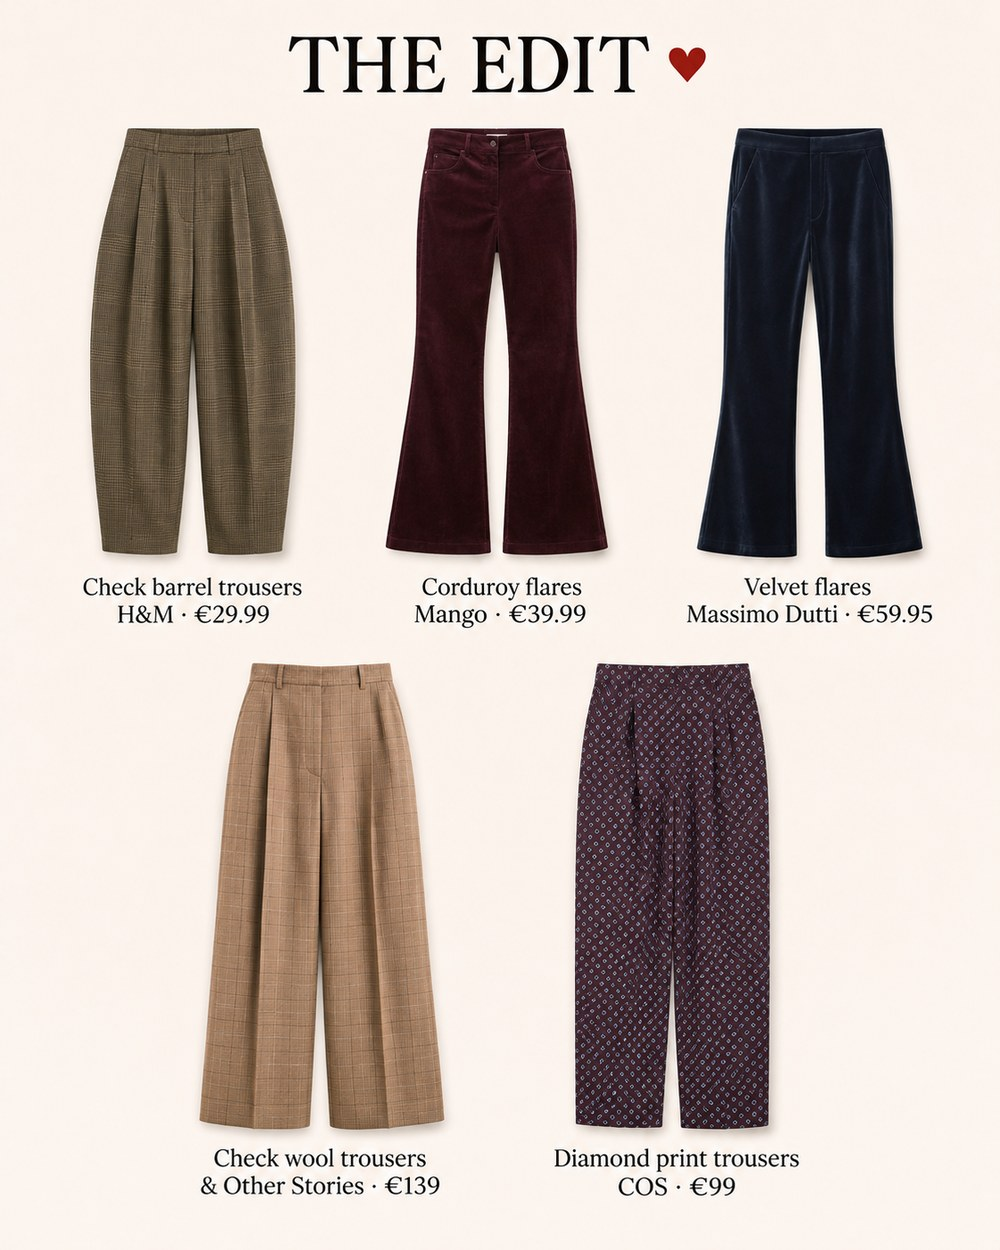
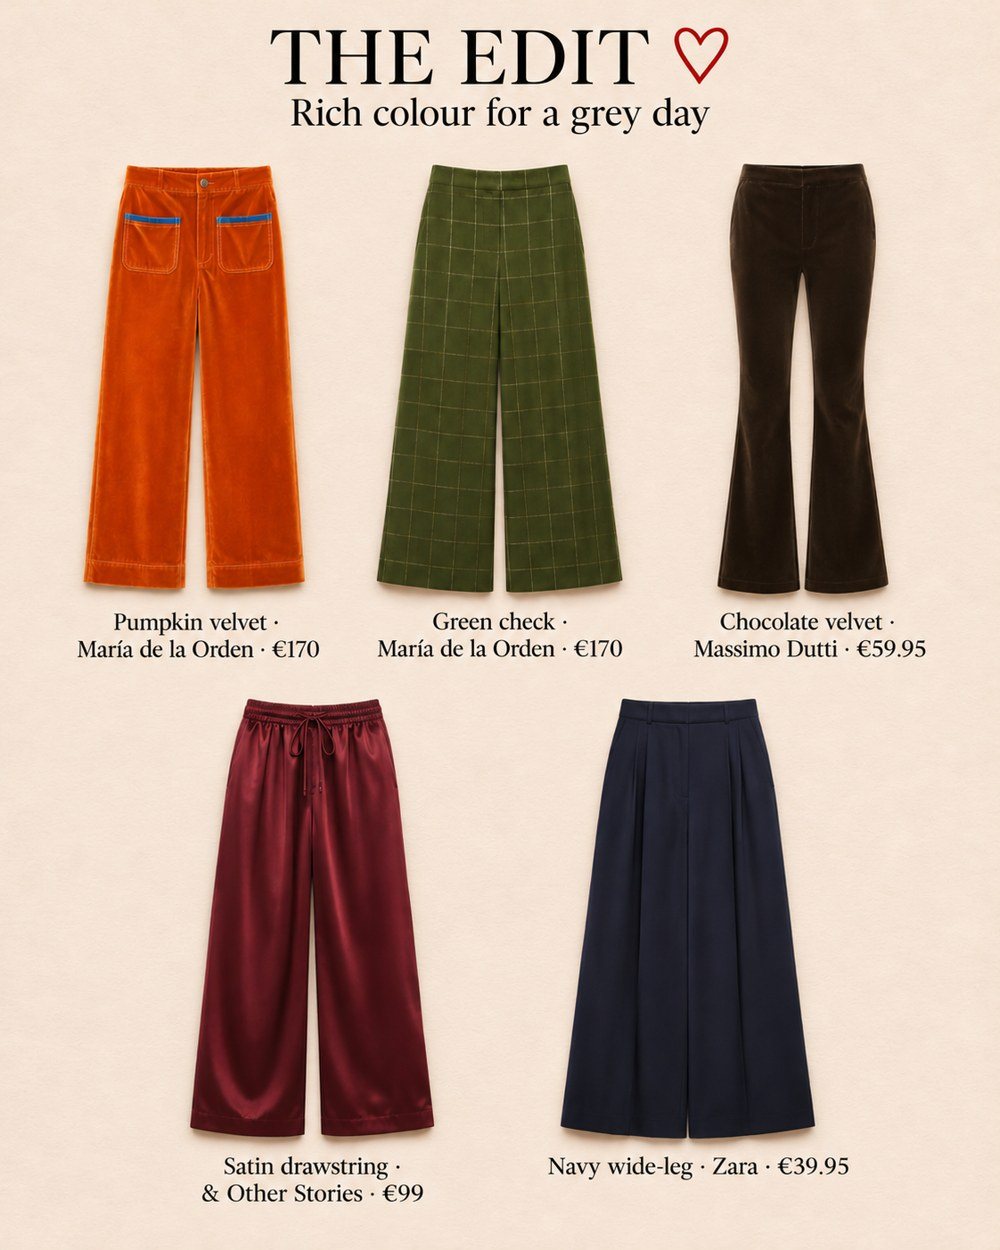
Shop: The Edit, rich colour for a grey day

diff --git a/index.html b/index.html
@@ -56,6 +56,12 @@ a:focus-visible{outline:2px solid var(--accent);outline-offset:2px}
 <script>
 /* ADD NEW LOOKS AT THE TOP OF THIS LIST */
 const LOOKS = [
+  {id:"trousers", kicker:"The Edit", title:"Rich colour for a grey day", date:"22 Nov 2026", img:"trousers.jpg", items:[
+    {b:"María de la Orden", n:"Niza pants, pumpkin velvet", p:"€170", u:"https://mariadelaorden.com/products/niza-pants-pumpkin-velvet"},
+    {b:"María de la Orden", n:"Lova pants, green checks", p:"€170", u:"https://mariadelaorden.com/products/lova-pants-green-checks"},
+    {b:"Massimo Dutti", n:"Skinny flare velvet trousers, chocolate", p:"€59.95", u:"https://www.massimodutti.com/es/pantalon-skinny-flare-fit-terciopelo-l05041741?colorId=717"},
+    {b:"& Other Stories", n:"Drawstring satin trousers, dark red", p:"€99", u:"https://www.stories.com/es-es/product/drawstring-satin-trousers-dark-red-1301566005/"},
+    {b:"Zara", n:"Wide-leg trousers ZW Collection, navy", p:"€39.95", u:"https://www.zara.com/es/es/pantalon-ancho-zw-collection-p04344242.html"},]},
   {id:"navyred", kicker:"Saturday", title:"Navy and a little red", date:"21 Nov 2026", img:"navyred.jpg", items:[
     {b:"Zara", n:"Knit jacket with contrast piping, navy", p:"€39.95", u:"https://www.zara.com/es/es/chaqueta-punto-vivos-contraste-p09874125.html"},
     {b:"H&M", n:"Wide regular waist jeans, denim blue", p:"€34.99", u:"https://www2.hm.com/es_es/productpage.1364537001.html"},
